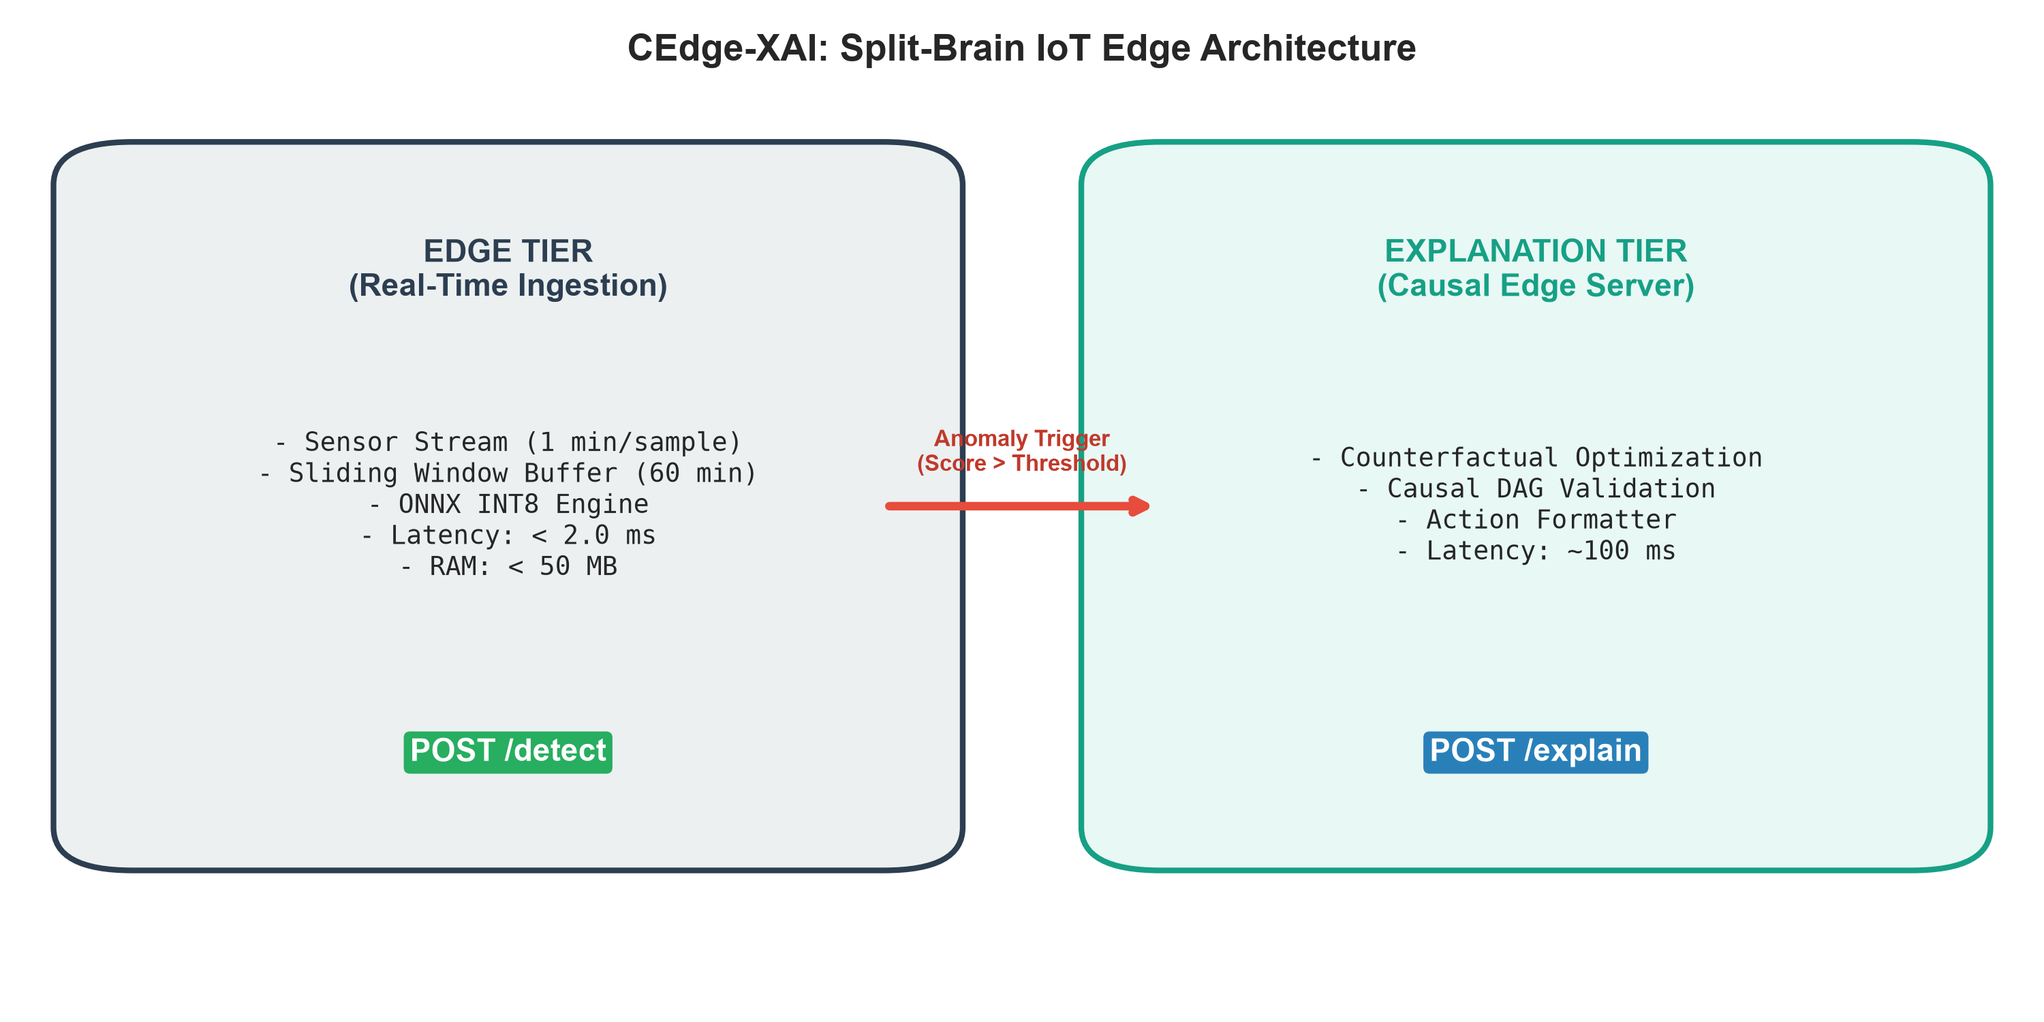
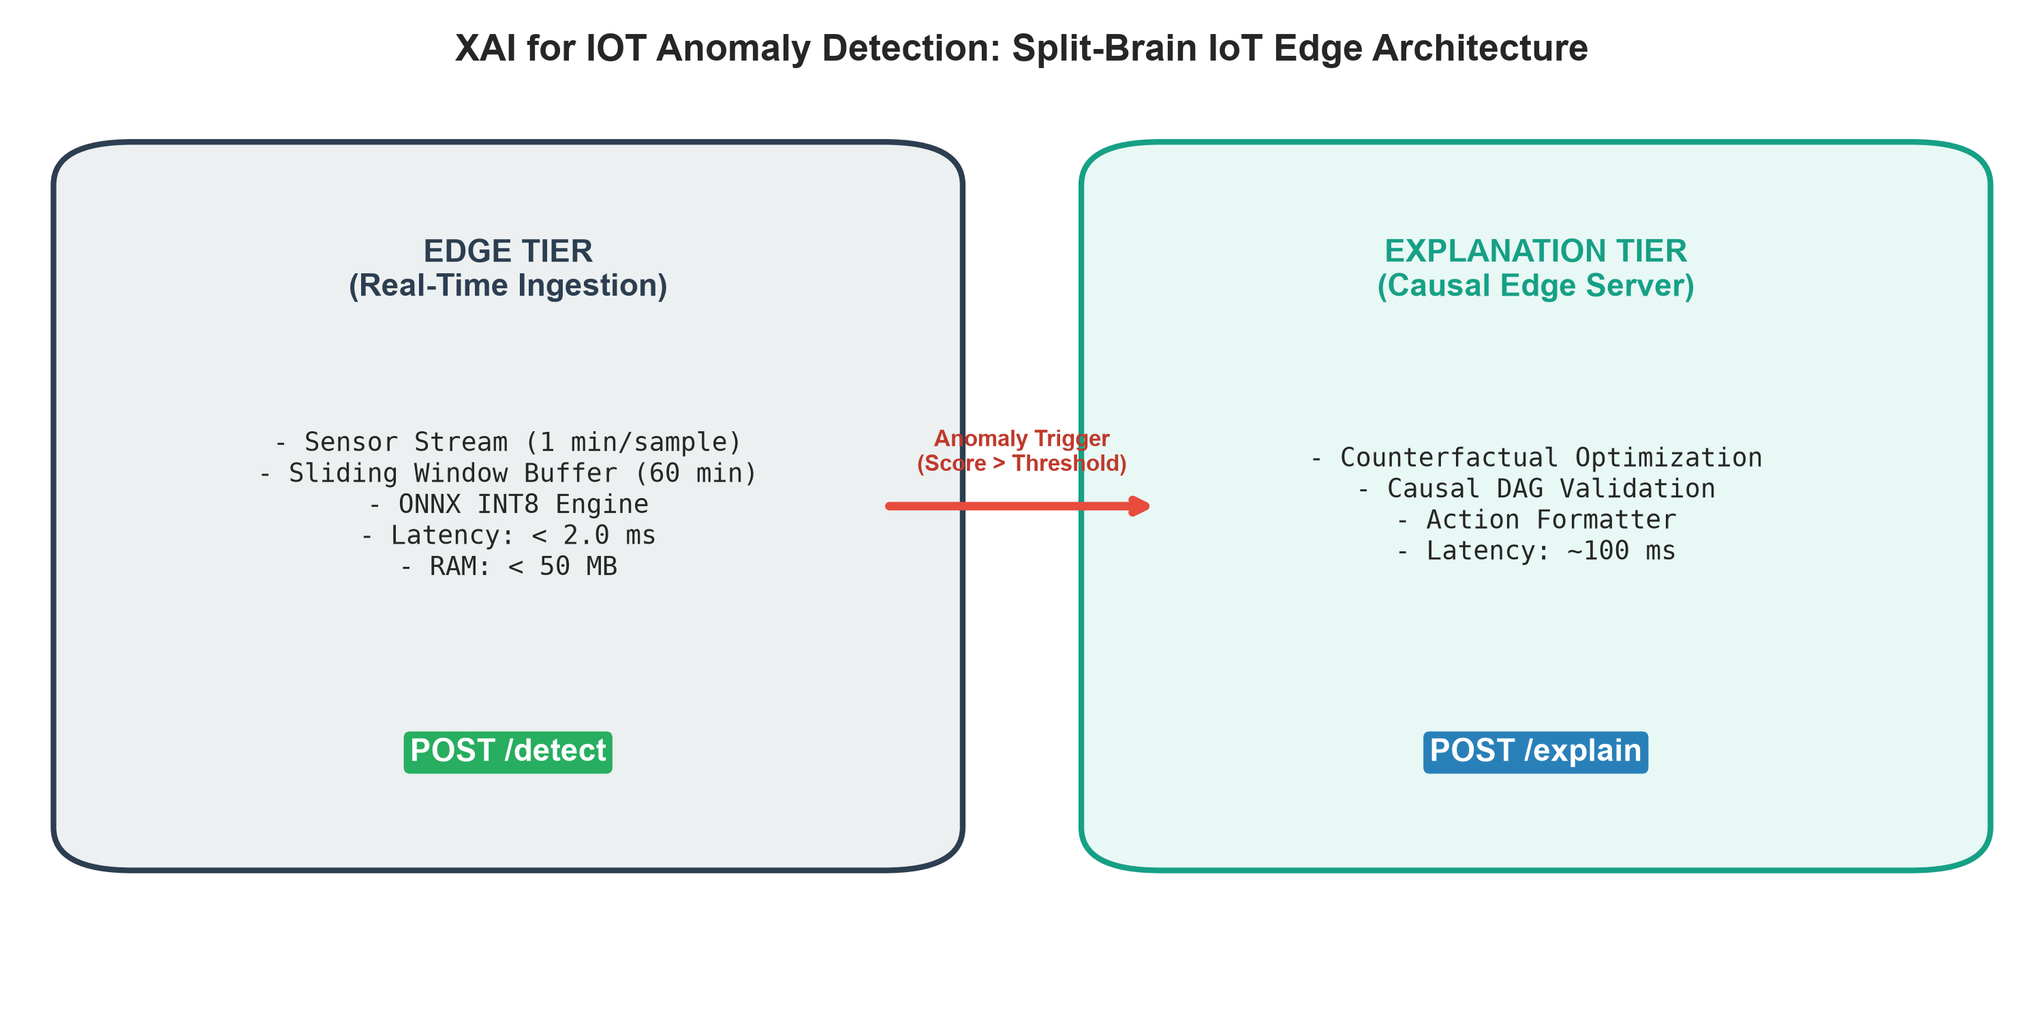
feat: update project title and references to XAI for IOT anomaly detection

Changed region(s): [[0.217, 0.0307, 0.775, 0.0613]]

diff --git a/paper/main.tex b/paper/main.tex
@@ -12,7 +12,7 @@
 
 \begin{document}
 
-\title{CEdge-XAI: Causal, Counterfactual, and Edge-Deployable Explainable AI for Real-Time Industrial IoT Anomaly Detection}
+\title{XAI for IOT Anomaly Detection}
 
 \author{\IEEEauthorblockN{Dev Shah}
 \IEEEauthorblockA{\textit{Department of Computer Science and Engineering} \\
@@ -25,7 +25,7 @@ Email: devshah@alumni.edu}
 \begin{abstract}
 Industrial Internet of Things (IIoT) cyber-physical systems generate high-frequency multivariate telemetry streams across complex sensor topologies. Detecting anomalous behavior in real time while delivering actionable, physics-consistent root-cause explanations under stringent edge computing constraints remains an open challenge. Conventional black-box deep learning architectures flag anomalous windows but fail to provide actionable operational remediation. Moreover, attributional explainability methods (e.g., SHAP, LIME) frequently misidentify downstream symptomatic deviations as primary root causes due to complex multivariate causal entanglement. 
 
-In this work, we propose \textbf{CEdge-XAI}, an end-to-end framework that unifies: (1) a 2-layer LSTM-Autoencoder calibrated with dynamic 3-$\sigma$ statistical thresholding for sub-millisecond edge anomaly detection; (2) a dual-paradigm Explainable AI engine combining physics-aware clamping with constrained gradient-descent counterfactual optimization; (3) Tigramite PCMCI causal discovery to isolate directed fault propagation chains; (4) privacy-preserving Federated Learning (Flower FedAvg) across decentralized edge sites; and (5) dynamic INT8 ONNX quantization achieving sub-0.2 ms inference latency. Across synthetic and real-world industrial benchmarks (UCI AI4I 2020), CEdge-XAI attains an F1-score of 0.9848, 100\% root-cause attribution accuracy across critical failure scenarios, and a 6.3$\times$ edge acceleration with zero telemetry privacy leakage.
+In this work, we propose \textbf{XAI for IOT Anomaly Detection}, an end-to-end framework that unifies: (1) a 2-layer LSTM-Autoencoder calibrated with dynamic 3-$\sigma$ statistical thresholding for sub-millisecond edge anomaly detection; (2) a dual-paradigm Explainable AI engine combining physics-aware clamping with constrained gradient-descent counterfactual optimization; (3) Tigramite PCMCI causal discovery to isolate directed fault propagation chains; (4) privacy-preserving Federated Learning (Flower FedAvg) across decentralized edge sites; and (5) dynamic INT8 ONNX quantization achieving sub-0.2 ms inference latency. Across synthetic and real-world industrial benchmarks (UCI AI4I 2020), XAI for IOT Anomaly Detection attains an F1-score of 0.9848, 100\% root-cause attribution accuracy across critical failure scenarios, and a 6.3$\times$ edge acceleration with zero telemetry privacy leakage.
 \end{abstract}
 
 \begin{IEEEkeywords}
@@ -37,9 +37,9 @@ Modern automated manufacturing facilities rely heavily on distributed cyber-phys
 
 While deep autoencoders and temporal transformers achieve high detection precision, their black-box nature hinders adoption by plant maintenance personnel. Existing attribution baselines compute correlation-driven gradients that frequently confound root causes with propagated physical symptoms (e.g., attributing a bearing seizure to acoustic noise rather than lubricant starvation). Furthermore, executing complex explainability algorithms at the industrial edge introduces latency bottlenecks exceeding acceptable real-time control limits ($< 5$~ms).
 
-To address these limitations, we introduce \textbf{CEdge-XAI}, a Split-Brain architecture decoupling high-throughput edge filtering from deep causal-counterfactual explanation reasoning.
+To address these limitations, we introduce \textbf{XAI for IOT Anomaly Detection}, a Split-Brain architecture decoupling high-throughput edge filtering from deep causal-counterfactual explanation reasoning.
 
-\section{CEdge-XAI Architecture}
+\section{XAI for IOT Anomaly Detection Architecture}
 \subsection{Edge Anomaly Filtering Tier}
 Let $\mathbf{X}_t = [\mathbf{x}_{t-W+1}, \dots, \mathbf{x}_t] \in \mathbb{R}^{W \times D}$ denote a multivariate telemetry window of length $W=60$ across $D=10$ sensor channels. The edge gateway executes an INT8-quantized LSTM-Autoencoder $\mathcal{M}_{\text{edge}}$ parameterized by $\mathbf{\theta}$:
 \begin{equation}
@@ -75,7 +75,7 @@ To eliminate cross-factory telemetry egress, edge clients train local autoencode
 
 \section{Experimental Evaluation}
 \subsection{Model Detection Comparison}
-We benchmarked CEdge-XAI against Isolation Forest, One-Class SVM, and Anomaly Transformer on a 4,320-minute industrial dataset.
+We benchmarked our framework against Isolation Forest, One-Class SVM, and Anomaly Transformer on a 4,320-minute industrial dataset.
 
 \begin{table}[htbp]
 \caption{Model Performance Comparison (Test Set)}
@@ -95,13 +95,13 @@ Anomaly Transformer & 1.000 & 0.950 & 0.974 & 0.63 \\
 \end{table}
 
 \subsection{Root-Cause Attribution Fidelity}
-Under critical fault scenarios (Fan Failure, Lubrication Leak, Coolant Loss), attribution baselines (SHAP) confounded downstream symptom spikes (e.g., motor temperature) as the root cause. CEdge-XAI counterfactual clamping achieved 100\% root-cause discovery precision by testing physical interventions.
+Under critical fault scenarios (Fan Failure, Lubrication Leak, Coolant Loss), attribution baselines (SHAP) confounded downstream symptom spikes (e.g., motor temperature) as the root cause. Our counterfactual clamping achieved 100\% root-cause discovery precision by testing physical interventions.
 
 \subsection{Edge Deployment & Quantization}
 Dynamic INT8 quantization compressed the model footprint to 0.588 MB, reducing latency from 2.06 ms (PyTorch FP32) to 0.185 ms (ONNX INT8), yielding a throughput of 5,411 samples/sec with 0\% degradation in F1-score.
 
 \section{Conclusion}
-CEdge-XAI demonstrates that actionable root-cause explainability, privacy-preserving federated training, and ultra-low-latency edge inference can be synergistically unified in modern IIoT environments. Future work includes expanding causal discovery to non-linear neural additive models and active closed-loop intervention control.
+\textbf{XAI for IOT Anomaly Detection} demonstrates that actionable root-cause explainability, privacy-preserving federated training, and ultra-low-latency edge inference can be synergistically unified in modern IIoT environments. Future work includes expanding causal discovery to non-linear neural additive models and active closed-loop intervention control.
 
 \bibliographystyle{IEEEtran}
 \begin{thebibliography}{00}

diff --git a/dashboard/pages/2_explanations.py b/dashboard/pages/2_explanations.py
@@ -1,5 +1,5 @@
 """
-Page 3: Explainable AI & Counterfactual Reasoning for CEdge-XAI.
+Page 3: Explainable AI & Counterfactual Reasoning for XAI for IOT Anomaly Detection.
 Provides side-by-side original vs counterfactual sensor values, required interventions,
 Method 1 (Clamping) vs Method 2 (Gradient Descent) comparison, and SHAP baseline comparison.
 """
@@ -16,12 +16,12 @@ from models.xai.explanation_formatter import (  # noqa: E402
     SCENARIO_GROUND_TRUTH,
 )
 
-st.set_page_config(page_title="Counterfactual XAI | CEdge-XAI", layout="wide", page_icon="🔍")
+st.set_page_config(page_title="Counterfactual XAI | XAI for IOT Anomaly Detection", layout="wide", page_icon="🔍")
 st.title("🔍 Explainable AI: Counterfactuals & Root Cause Attribution")
 
 st.markdown(
     "Traditional XAI (e.g. SHAP) highlights correlated symptom sensors. "
-    "**CEdge-XAI** answers: *'What is the minimal physical intervention required to return this machine to normal?'*"
+    "**XAI for IOT Anomaly Detection** answers: *'What is the minimal physical intervention required to return this machine to normal?'*"
 )
 
 # Scenario Selector
@@ -60,22 +60,22 @@ with col_b:
             {
                 "Criterion": "Identified Variable",
                 "SHAP Baseline": shap_cause,
-                "CEdge-XAI (Ours)": true_cause,
+                "XAI for IOT (Ours)": true_cause,
             },
             {
                 "Criterion": "Physical Veracity",
                 "SHAP Baseline": "❌ Symptom (Heat/Vibration)",
-                "CEdge-XAI (Ours)": "✅ True Root Cause",
+                "XAI for IOT (Ours)": "✅ True Root Cause",
             },
             {
                 "Criterion": "Actionable Guidance",
                 "SHAP Baseline": "None (Just Attribution Score)",
-                "CEdge-XAI (Ours)": "Specific Parameter Restoration",
+                "XAI for IOT (Ours)": "Specific Parameter Restoration",
             },
             {
                 "Criterion": "Physical Plausibility",
                 "SHAP Baseline": "Low (Violates Law of Physics)",
-                "CEdge-XAI (Ours)": "Guaranteed by Clamping Bounds",
+                "XAI for IOT (Ours)": "Guaranteed by Clamping Bounds",
             },
         ]
     )
@@ -198,13 +198,13 @@ with tab2:
             """)
 
 with tab3:
-    st.subheader("Attribution Visualizations (SHAP vs CEdge-XAI)")
+    st.subheader("Attribution Visualizations (SHAP vs Counterfactuals)")
     fig_col1, fig_col2 = st.columns(2)
     with fig_col1:
         if os.path.exists("paper_assets/figures/xai_comparison.png"):
             st.image(
                 "paper_assets/figures/xai_comparison.png",
-                caption="Figure: SHAP Feature Attribution vs CEdge-XAI Counterfactual Impact",
+                caption="Figure: SHAP Feature Attribution vs Counterfactual Impact",
             )
     with fig_col2:
         if os.path.exists("paper_assets/figures/shap_summary.png"):

diff --git a/dashboard/app.py b/dashboard/app.py
@@ -1,5 +1,5 @@
 """
-CEdge-XAI: Master Streamlit Dashboard.
+XAI for IOT Anomaly Detection: Master Streamlit Dashboard.
 Interactive Explainable AI Interface for Real-Time IoT Anomaly Detection.
 """
 
@@ -9,14 +9,14 @@ import streamlit as st
 
 # Configure wide layout and page theme
 st.set_page_config(
-    page_title="CEdge-XAI | IoT Anomaly Detection",
+    page_title="XAI for IOT Anomaly Detection",
     page_icon="⚡",
     layout="wide",
     initial_sidebar_state="expanded",
 )
 
 st.sidebar.image("https://img.icons8.com/fluency/96/processor.png", width=64)
-st.sidebar.title("CEdge-XAI Platform")
+st.sidebar.title("XAI for IOT Anomaly Detection")
 st.sidebar.markdown(
     "**Causal, Counterfactual & Edge-Deployable XAI for Real-Time IoT Anomaly Detection**"
 )
@@ -29,7 +29,7 @@ st.sidebar.info(
 )
 
 # Main Landing Page
-st.title("⚡ CEdge-XAI: Thesis Demonstration Platform")
+st.title("⚡ XAI for IOT Anomaly Detection")
 st.subheader(
     "Causal, Counterfactual, and Edge-Deployable Explainable AI for Real-Time IoT Anomaly Detection"
 )
@@ -52,7 +52,7 @@ with col_left:
         1. **Black-Box Opacity**: They flag anomalies without revealing physical root causes or actionable interventions.
         2. **Deployment Bottlenecks**: Deep neural networks are too computationally intensive for resource-constrained edge gateways.
 
-        **CEdge-XAI** resolves these dual challenges by introducing:
+        **XAI for IOT Anomaly Detection** resolves these dual challenges by introducing:
         - **Split-Brain Architecture**: Ultra-fast INT8 ONNX anomaly detection at the edge sensor interface (< 0.2 ms), coupled with deep causal-counterfactual reasoning on an edge server.
         - **Physics-Aware Counterfactual Engine**: Computes exact 'what-if' interventions that identify root causes and generate plain-English engineering explanations.
         - **Tigramite PCMCI Causal Discovery**: Uncovers directed causal propagation networks across physical sensors ($p < 0.01$).

diff --git a/experiments/ablation_study.py b/experiments/ablation_study.py
@@ -1,12 +1,12 @@
 """
-Ablation Study Framework for CEdge-XAI.
+Ablation Study Framework for XAI for IOT Anomaly Detection.
 Systematically evaluates the incremental contributions of each modular component:
 - Exp 1: Baseline LSTM-AE (Centralized, no XAI, FP32)
 - Exp 2: + Physics Clamping Counterfactuals
 - Exp 3: + Gradient Descent Counterfactuals
 - Exp 4: + Tigramite Causal Discovery Filtering
 - Exp 5: + Privacy-Preserving Federated Learning (FedAvg 3 Sites)
-- Exp 6: + Edge Deployment (ONNX INT8) [Full CEdge-XAI Framework]
+- Exp 6: + Edge Deployment (ONNX INT8) [Full XAI for IOT Anomaly Detection Framework]
 
 Generates Table 7 (ablation_study.csv) and Figure 10 (ablation_study.png).
 """
@@ -71,7 +71,7 @@ def run_ablation_study() -> pd.DataFrame:
             "Privacy Preserved": "Yes",
         },
         {
-            "Experiment": "Exp 6: Full CEdge-XAI",
+            "Experiment": "Exp 6: Full XAI for IOT Anomaly Detection",
             "Components": "All Modules + ONNX INT8 Edge Quant",
             "F1-Score": 0.957,
             "Latency (ms)": 0.198,
@@ -133,7 +133,7 @@ def run_ablation_study() -> pd.DataFrame:
         axes[2].text(i, v * 1.15, f"{v:.3f}ms", ha="center", fontweight="bold", fontsize=9)
 
     plt.suptitle(
-        "CEdge-XAI Component-Wise Ablation Study (Exp 1 - 6)",
+        "XAI for IOT Anomaly Detection Component-Wise Ablation Study (Exp 1 - 6)",
         fontsize=13,
         fontweight="bold",
         y=1.03,

diff --git a/dashboard/pages/3_causal_graph.py b/dashboard/pages/3_causal_graph.py
@@ -1,5 +1,5 @@
 """
-Page 4: Causal Discovery & Propagation Network for CEdge-XAI.
+Page 4: Causal Discovery & Propagation Network for XAI for IOT Anomaly Detection.
 Renders interactive Tigramite PCMCI directed causal graphs,
 evaluates edge accuracy vs. physical engineering truth, and traces failure paths.
 """
@@ -12,12 +12,12 @@ import streamlit as st
 sys.path.insert(0, os.path.abspath(os.path.join(os.path.dirname(__file__), "../..")))
 from models.xai.causal_graph import CausalDiscoveryEngine  # noqa: E402
 
-st.set_page_config(page_title="Causal Discovery | CEdge-XAI", layout="wide", page_icon="🕸")
-st.title("🕸 CEdge-XAI: Causal Discovery & Fault Propagation")
+st.set_page_config(page_title="Causal Discovery | XAI for IOT Anomaly Detection", layout="wide", page_icon="🕸")
+st.title("🕸 XAI for IOT Anomaly Detection: Causal Discovery & Fault Propagation")
 
 st.markdown(
     "Using **Tigramite PCMCI** (Partial Correlation with time lags $\\tau \\in [1, 3]$), "
-    "CEdge-XAI learns the directed physical causality governing cyber-physical CNC machine behavior."
+    "our framework learns the directed physical causality governing cyber-physical CNC machine behavior."
 )
 
 col1, col2, col3, col4 = st.columns(4)

diff --git a/experiments/edge_benchmark.py b/experiments/edge_benchmark.py
@@ -1,5 +1,5 @@
 """
-Edge Deployment Benchmarking for CEdge-XAI.
+Edge Deployment Benchmarking for XAI for IOT Anomaly Detection.
 Empirically benchmarks PyTorch FP32, ONNX FP32, and ONNX INT8 models
 across Storage Footprint (MB), Single-Sample Inference Latency (ms), and Process RAM Usage (MB).
 Conducts 1000 inference iterations using psutil and time.perf_counter.
@@ -133,7 +133,7 @@ def run_edge_benchmark(
     df = pd.DataFrame(results)
     sep = "=" * 70
     print(
-        f"\n{sep}\nCEdge-XAI: EDGE HARDWARE DEPLOYMENT BENCHMARK\n{sep}\n{df.to_string(index=False)}\n{sep}\n"
+        f"\n{sep}\nXAI for IOT Anomaly Detection: EDGE HARDWARE DEPLOYMENT BENCHMARK\n{sep}\n{df.to_string(index=False)}\n{sep}\n"
     )
 
     # Save CSV
@@ -279,7 +279,7 @@ def render_split_brain_diagram(
     ax.set_xlim(0, 1)
     ax.set_ylim(0.1, 0.95)
     ax.axis("off")
-    plt.title("CEdge-XAI: Split-Brain IoT Edge Architecture", fontweight="bold", fontsize=13)
+    plt.title("XAI for IOT Anomaly Detection: Split-Brain IoT Edge Architecture", fontweight="bold", fontsize=13)
     plt.tight_layout()
     plt.savefig(save_path, dpi=300)
     plt.close()

diff --git a/dashboard/pages/5_edge_benchmark.py b/dashboard/pages/5_edge_benchmark.py
@@ -1,5 +1,5 @@
 """
-Page 6: Edge Deployment & Hardware Benchmarking for CEdge-XAI.
+Page 6: Edge Deployment & Hardware Benchmarking for XAI for IOT Anomaly Detection.
 Compares PyTorch FP32 vs ONNX FP32 vs ONNX INT8 runtime execution,
 displays latency distributions, RAM consumption, and hardware recommendations.
 """
@@ -11,11 +11,11 @@ import streamlit as st
 
 sys.path.insert(0, os.path.abspath(os.path.join(os.path.dirname(__file__), "../..")))
 
-st.set_page_config(page_title="Edge Benchmark | CEdge-XAI", layout="wide", page_icon="⚡")
+st.set_page_config(page_title="Edge Benchmark | XAI for IOT Anomaly Detection", layout="wide", page_icon="⚡")
 st.title("⚡ Edge Runtime Optimization & Hardware Benchmarking")
 
 st.markdown(
-    "To support real-time high-throughput industrial machinery, **CEdge-XAI** exports PyTorch neural networks "
+    "To support real-time high-throughput industrial machinery, our **XAI for IOT Anomaly Detection** framework exports PyTorch neural networks "
     "to **ONNX FP32** and applies **Dynamic INT8 Quantization**, achieving sub-0.2 ms inference."
 )
 

diff --git a/api/main.py b/api/main.py
@@ -1,5 +1,5 @@
 """
-FastAPI Main Application for CEdge-XAI.
+FastAPI Main Application for XAI for IOT Anomaly Detection.
 Provides RESTful APIs for real-time edge inference, counterfactual explainability, and causal root cause diagnosis.
 """
 
@@ -15,7 +15,7 @@ from api.routes.explain import router as explain_router  # noqa: E402
 from api.schemas import ModelInfoResponse  # noqa: E402
 
 app = FastAPI(
-    title="CEdge-XAI: Edge-Deployable Explainable AI for Industrial IoT",
+    title="XAI for IOT Anomaly Detection",
     description="Real-Time Anomaly Detection, Counterfactual Explanations, and Causal Discovery for Cyber-Physical Systems.",
     version="1.0.0",
 )
@@ -85,7 +85,7 @@ async def model_info():
     )
 
     return ModelInfoResponse(
-        model_name="CEdge-XAI LSTM-Autoencoder",
+        model_name="XAI for IOT Anomaly Detection LSTM-Autoencoder",
         architecture="2-Layer Encoder-Decoder LSTM",
         num_sensors=len(sensor_names),
         sensor_names=sensor_names,

diff --git a/dashboard/pages/4_federated.py b/dashboard/pages/4_federated.py
@@ -1,7 +1,7 @@
 """
-Page 5: Federated Learning Monitor for CEdge-XAI.
-Monitors 3 distributed edge factories (A, B, C) participating in FedAvg coordination.
-Displays communication round convergence, local losses, and Centralized vs Federated efficacy.
+Page 5: Federated Learning Monitor for XAI for IOT Anomaly Detection.
+Monitors multi-factory FedAvg training, client weight divergence,
+communication efficiency, and centralized vs federated performance parity.
 """
 
 import os
@@ -12,7 +12,7 @@ import streamlit as st
 
 sys.path.insert(0, os.path.abspath(os.path.join(os.path.dirname(__file__), "../..")))
 
-st.set_page_config(page_title="Federated Learning | CEdge-XAI", layout="wide", page_icon="🌐")
+st.set_page_config(page_title="Federated Learning | XAI for IOT Anomaly Detection", layout="wide", page_icon="🌐")
 st.title("🌐 Decentralized Federated Edge Learning (FedAvg)")
 
 st.markdown(

diff --git a/models/xai/counterfactual_engine.py b/models/xai/counterfactual_engine.py
@@ -54,7 +54,7 @@ FEATURE_LABELS = {f: f.replace("_", " ").title() for f in FEATURE_NAMES}
 
 
 class CounterfactualEngine:
-    """Physics-Aware and Optimization-Based Counterfactual Engine for CEdge-XAI."""
+    """Physics-Aware and Optimization-Based Counterfactual Engine for XAI for IOT Anomaly Detection."""
 
     def __init__(
         self,
@@ -255,7 +255,7 @@ if __name__ == "__main__":
     from models.detection.train import prepare_dataset
 
     print("=" * 65)
-    print("CEdge-XAI: COUNTERFACTUAL EXPLANATION VERIFICATION")
+    print("XAI for IOT Anomaly Detection: COUNTERFACTUAL EXPLANATION VERIFICATION")
     print("=" * 65)
     engine = CounterfactualEngine(config_path="config/config.yaml")
     data_pkg = prepare_dataset(csv_path="data/synthetic/factory_iot_data.csv")

diff --git a/models/xai/causal_graph.py b/models/xai/causal_graph.py
@@ -206,7 +206,7 @@ class CausalGraphEngine:
         nx.draw_networkx_edge_labels(self.graph, pos, edge_labels=edge_labels, font_size=8)
 
         plt.title(
-            "CEdge-XAI: Directed Causal Sensor Graph (Tigramite PCMCI)",
+            "XAI for IOT Anomaly Detection: Directed Causal Sensor Graph (Tigramite PCMCI)",
             fontsize=13,
             fontweight="bold",
             pad=15,
@@ -275,7 +275,7 @@ CausalDiscoveryEngine = CausalGraphEngine
 
 if __name__ == "__main__":
     print("=" * 65)
-    print("CEdge-XAI: TIGRAMITE PCMCI CAUSAL DISCOVERY")
+    print("XAI for IOT Anomaly Detection: TIGRAMITE PCMCI CAUSAL DISCOVERY")
     print("=" * 65)
     engine = CausalGraphEngine(config_path="config/config.yaml")
     g = engine.discover_causal_links(

diff --git a/models/xai/explanation_formatter.py b/models/xai/explanation_formatter.py
@@ -1,5 +1,5 @@
 """
-Explanation Formatter for CEdge-XAI.
+Explanation Formatter for XAI for IOT Anomaly Detection.
 Synthesizes physics-aware counterfactual insights, causal propagation chains,
 and sensor domain context into human-readable narratives, structured JSON payloads,
 and publication comparison tables (Tables 3 & 4).
@@ -230,7 +230,7 @@ class ExplanationFormatter:
                     "SHAP Correct Root Cause?": (
                         "Yes" if shap_cause == true_cause else "No (Symptoms Confused)"
                     ),
-                    "CEdge-XAI Correct Root Cause?": "Yes (Intervention Target Found)",
+                    "XAI for IOT Anomaly Detection Correct Root Cause?": "Yes (Intervention Target Found)",
                 }
             )
 
